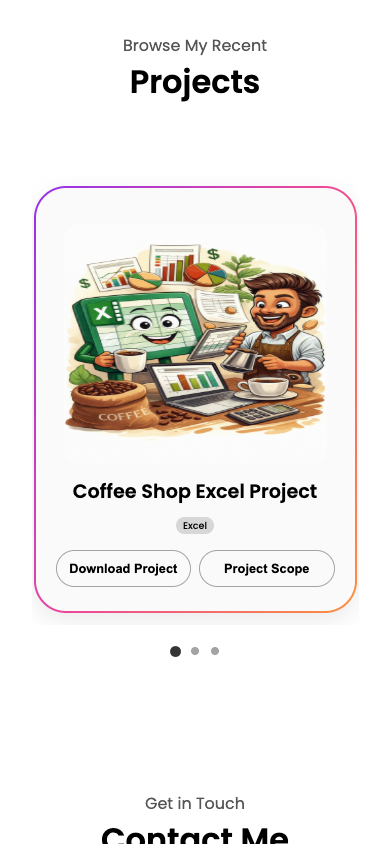
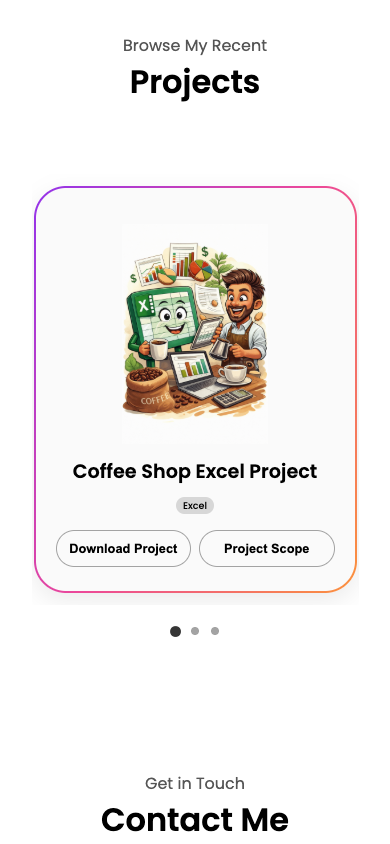
mobile

diff --git a/mediaqueries.css b/mediaqueries.css
@@ -82,10 +82,13 @@
     }
 
     #projects .projects-mobile .article-container {
-        display: block;
+        display: flex;
+        justify-content: center;
+        align-items: center;
         width: 100%;
         padding: 0.75rem 0.75rem 0;
         box-sizing: border-box;
+        overflow: hidden;
     }
 
     #projects .projects-mobile .project-img {
@@ -93,9 +96,11 @@
         width: 100%;
         max-width: 100%;
         height: auto;
-        max-height: 240px;
+        max-height: 220px;
         margin: 0 auto;
         border-radius: 1rem;
+        object-fit: contain;
+        object-position: center;
     }
 
     #projects .projects-mobile .project-title {

diff --git a/style.css b/style.css
@@ -478,10 +478,14 @@ article .icon {
     background: rgb(250, 250, 250);
 }
 
-.project-img {
+#projects .projects-desktop .project-img {
     border-radius: 2rem;
     width: 90%;
     height: 90%;
+}
+
+.project-img {
+    border-radius: 2rem;
 }
 
 .project-title {
